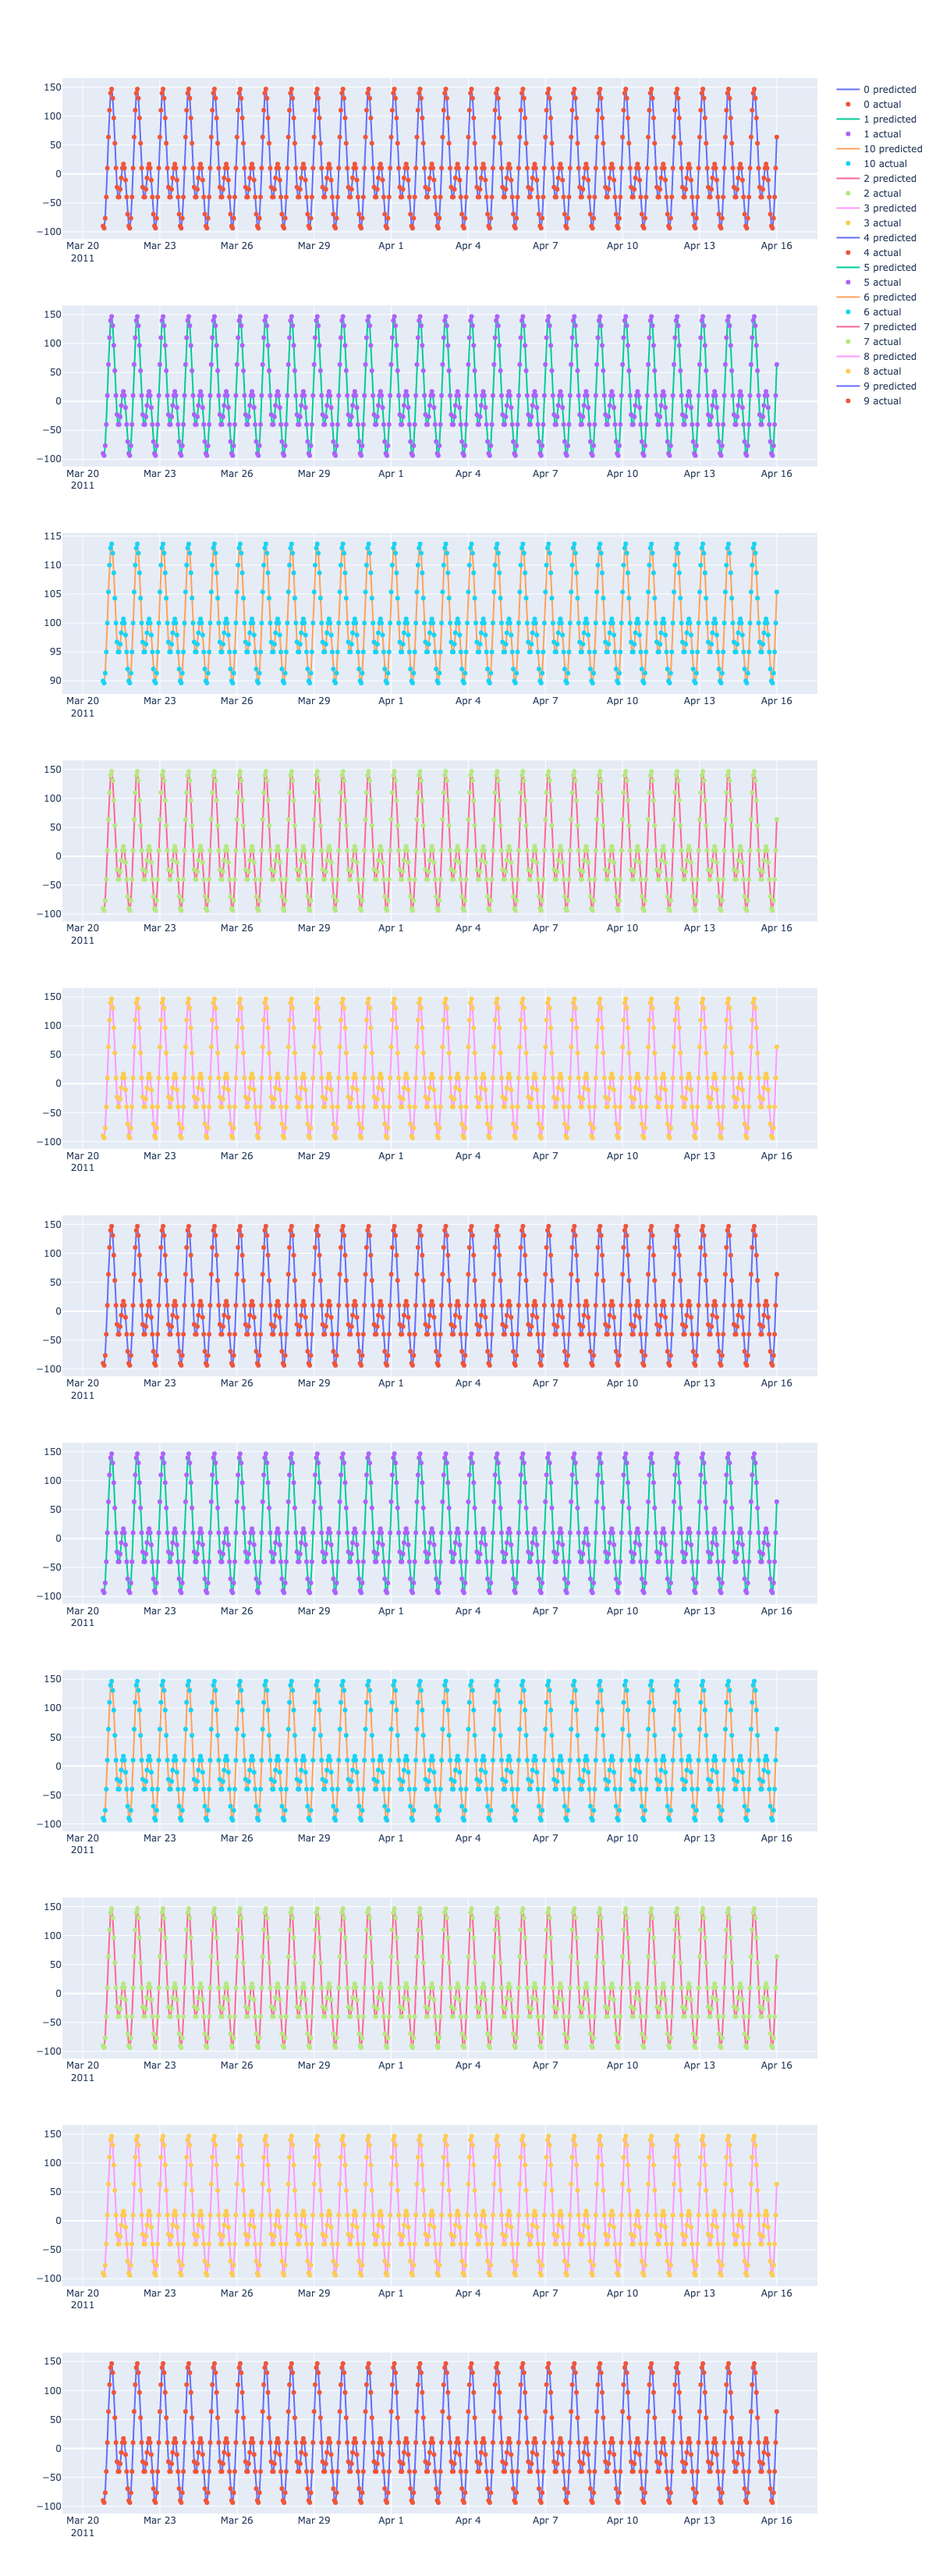
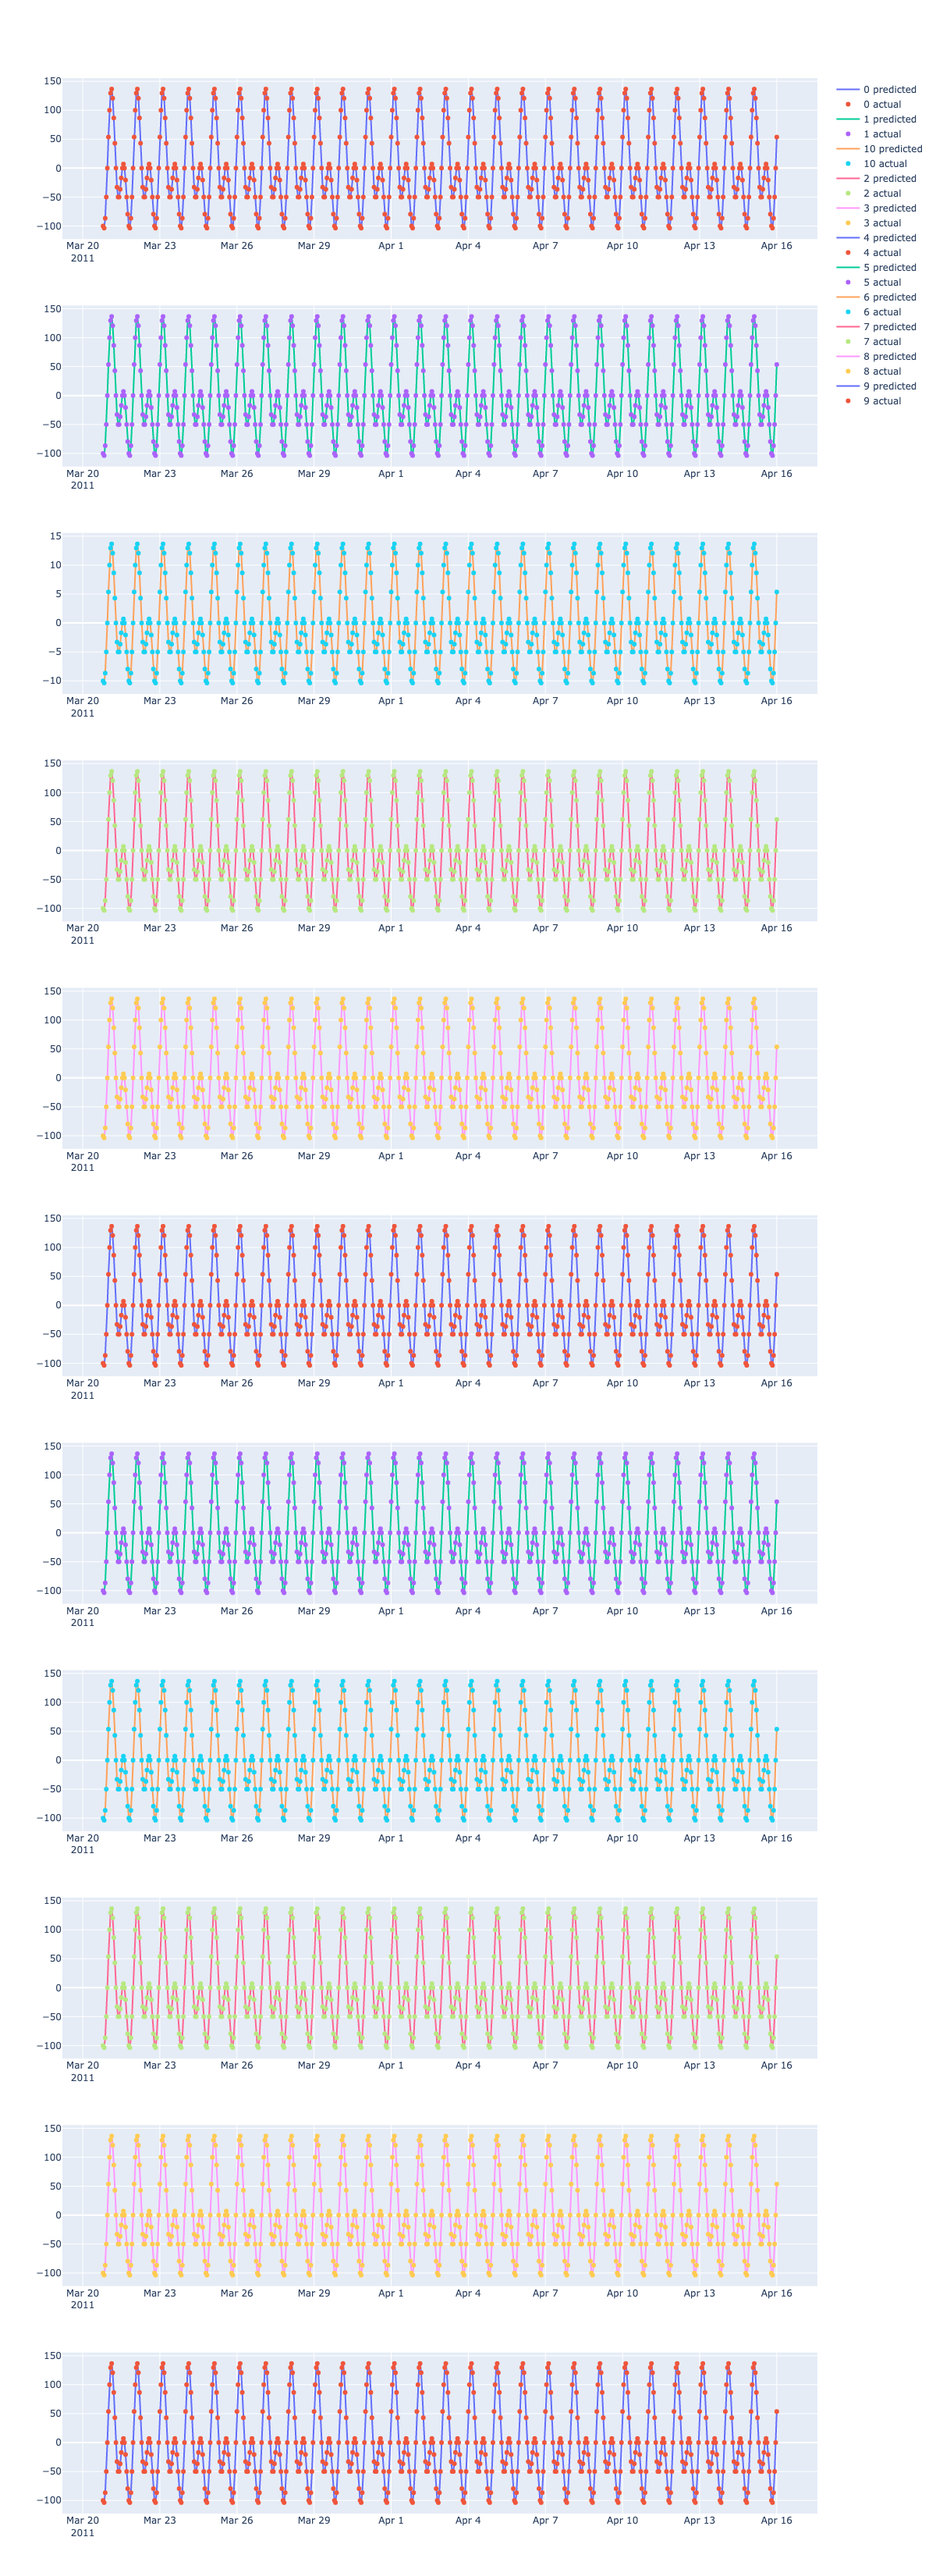
add more results

Changed region(s): [[0.0308, 0.4682, 0.0617, 0.4994]]

diff --git a/tot/normalization/experiments_reweighting/scripts/0506_SEASON_unbalanced_scale_twloschiam.py b/tot/normalization/experiments_reweighting/scripts/0506_SEASON_unbalanced_scale_twloschiam.py
@@ -28,9 +28,9 @@ model_params = {
 }
 
 run(df=df,
-    df_name="0506_SEASON_unbalanced_amplitude_twhiam",
+    df_name="0506_SEASON_unbalanced_scale_twloschiam",
     freq="H",
     model_class=NeuralProphetModel,
     save=True,
-    dir_name="0506_SEASON_unbalanced_amplitude_twhiam",
+    dir_name="0506_SEASON_unbalanced_scale_twloschiam",
     model_params=model_params)
